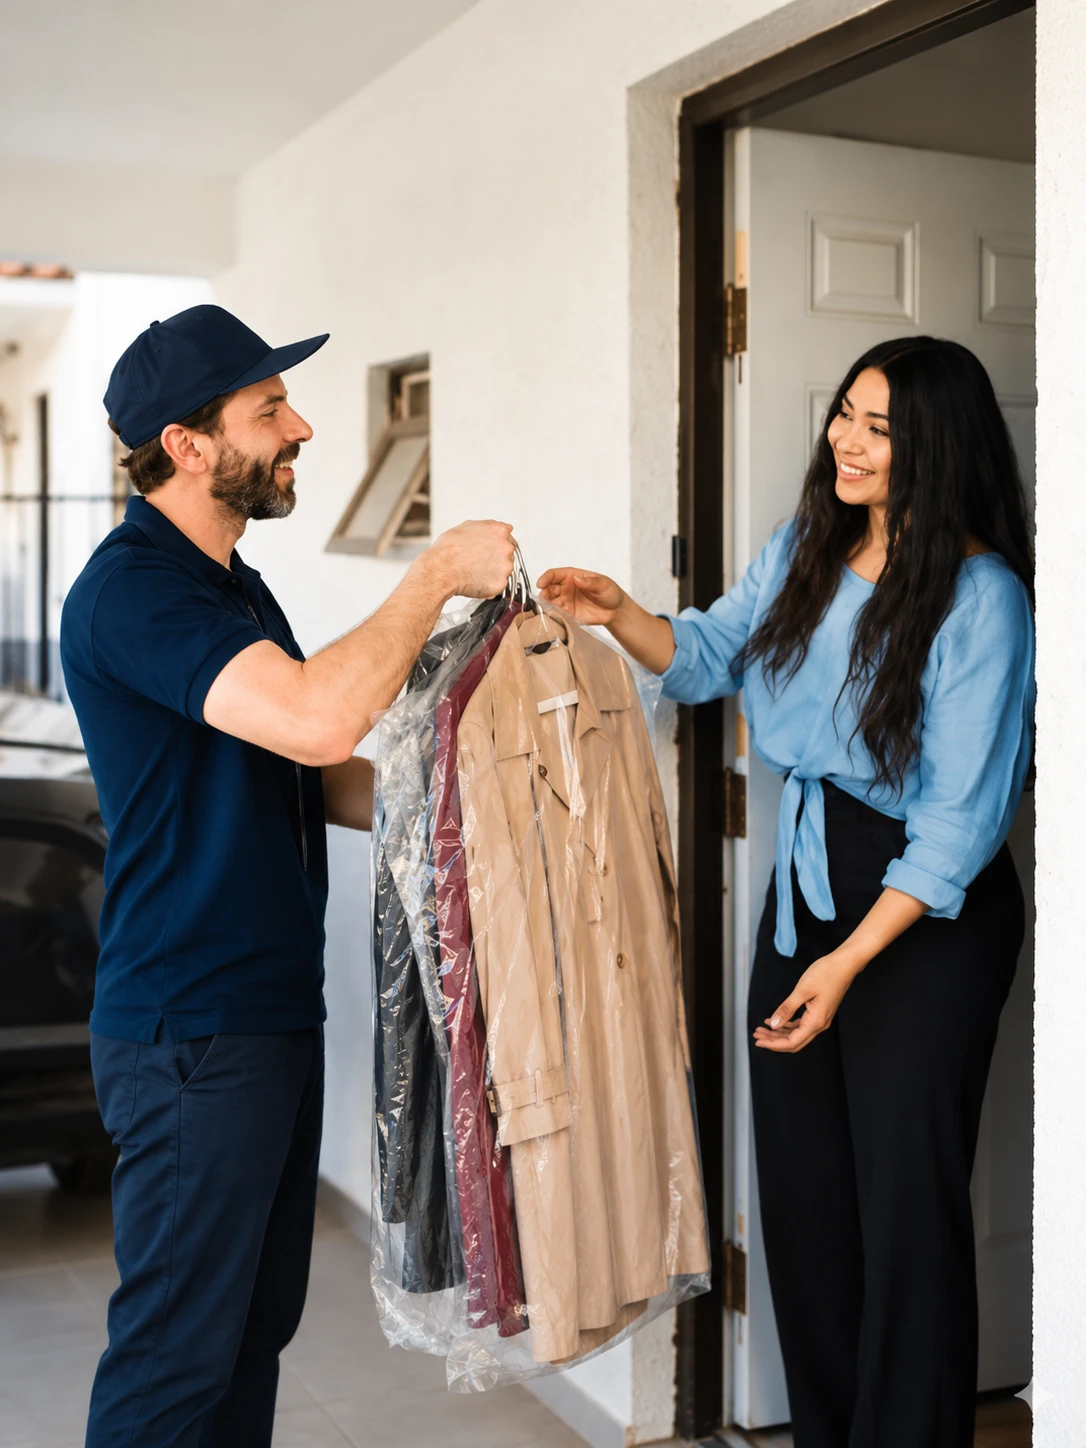
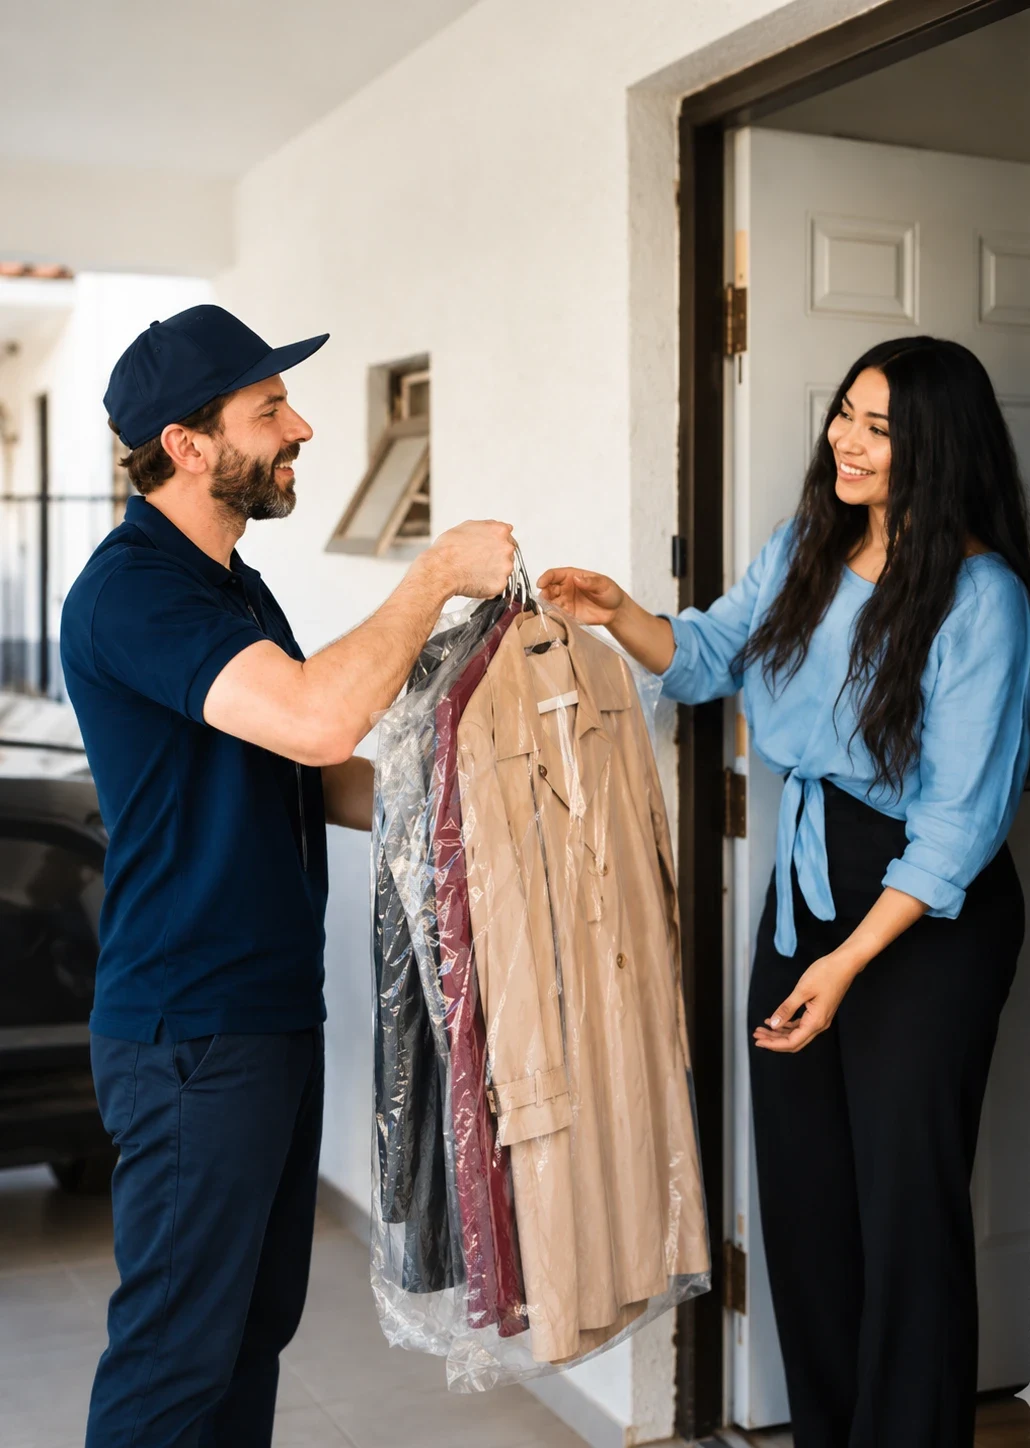
Fill internal-page heroes and fix the homepage hero crop
- hero.webp had a ~55px white band baked into its right edge, so the photo
  never filled its frame. Cropped to the real photo (1030x1448).
- /services, /how-it-works and /locations heroes had an empty right column.
  They now carry a photo: finished folded shirt, the owner-supplied doorstep
  handover, and the courier pickup image.
- Location pages show a large typographic sector plate in the hero until a
  verified outlet photo is uploaded (never stock). PageHero gains a
  `visual` slot for this.

Claude-Session: https://claude.ai/code/session_019MUj5QRW2qMKPvwBigzQSn

diff --git a/src/components/pages/PageHero.tsx b/src/components/pages/PageHero.tsx
@@ -34,6 +34,7 @@ export function PageHero({
   actions,
   aside,
   image,
+  visual,
   priority = true,
   stackActionsOnMobile = false,
 }: {
@@ -50,10 +51,13 @@ export function PageHero({
   /** Content under the actions (proof lines, facts). */
   aside?: ReactNode;
   image?: ImageSlot;
+  /** Right-column content when there is no photo (e.g. a location plate). Ignored if `image` is set. */
+  visual?: ReactNode;
   priority?: boolean;
   /** Stack the two actions on mobile when both are text buttons that won't fit side by side. */
   stackActionsOnMobile?: boolean;
 }) {
+  const hasVisual = Boolean(image || visual);
   return (
     <section aria-labelledby="page-title" className="pb-14 pt-6 md:pb-20 md:pt-10 xl:pb-24 xl:pt-12">
       <div className="container-page">
@@ -62,7 +66,7 @@ export function PageHero({
           <JsonLd data={buildBreadcrumbSchema(crumbs.map((c) => ({ label: c.label, path: c.href ?? path })))} />
         ) : null}
         <div className="mt-6 grid-page gap-y-8 md:mt-8">
-          <div className={image ? "col-span-4 md:col-span-4 xl:col-span-6" : "col-span-4 md:col-span-8 xl:col-span-9"}>
+          <div className={hasVisual ? "col-span-4 md:col-span-4 xl:col-span-6" : "col-span-4 md:col-span-8 xl:col-span-9"}>
             {eyebrow ? <Eyebrow>{eyebrow}</Eyebrow> : null}
             <h1 id="page-title" className="t-h1 max-w-[20ch] text-navy">
               {emphasise(title, highlight)}
@@ -86,6 +90,8 @@ export function PageHero({
                 priority={priority}
               />
             </div>
+          ) : visual ? (
+            <div className="col-span-4 md:col-span-4 md:col-start-5 xl:col-span-6 xl:col-start-7">{visual}</div>
           ) : null}
         </div>
       </div>

diff --git a/src/components/home/LocationsSection.tsx b/src/components/home/LocationsSection.tsx
@@ -23,15 +23,33 @@ async function LocationVisual({ loc }: { loc: Location }) {
       />
     );
   }
+  return <LocationPlate loc={loc} />;
+}
+
+/**
+ * Typographic stand-in for an outlet photo: the sector number set large.
+ * `hero` fills an internal-page hero column; the default is a short block header.
+ */
+export function LocationPlate({ loc, size = "block" }: { loc: Location; size?: "block" | "hero" }) {
+  const hero = size === "hero";
   return (
     <div
       aria-hidden="true"
-      className="flex h-[124px] flex-col md:h-[150px] xl:h-[190px] justify-between rounded-md border-t-2 border-navy bg-soft px-5 py-4 md:px-6 md:py-5"
+      className={`flex flex-col justify-between rounded-md border-t-2 border-navy bg-soft ${
+        hero
+          ? "aspect-[16/10] px-6 py-5 md:aspect-[4/5] md:px-8 md:py-7 xl:aspect-[4/3]"
+          : "h-[124px] px-5 py-4 md:h-[150px] md:px-6 md:py-5 xl:h-[190px]"
+      }`}
     >
       <span className="t-label uppercase text-secondary">Velto outlet · Uttara Sector</span>
-      <span className="text-[56px] font-semibold leading-[0.85] tracking-[-0.03em] text-navy md:text-[72px]">
+      <span
+        className={`font-semibold leading-[0.85] tracking-[-0.03em] text-navy ${
+          hero ? "text-[120px] md:text-[160px] xl:text-[200px]" : "text-[56px] md:text-[72px]"
+        }`}
+      >
         {loc.name.replace(/\D/g, "")}
       </span>
+      {hero ? <span className="t-small text-secondary">{loc.hours}</span> : null}
     </div>
   );
 }

diff --git a/src/app/(site)/locations/[id]/page.tsx b/src/app/(site)/locations/[id]/page.tsx
@@ -15,6 +15,7 @@ import { IMAGES } from "@/content/mock";
 import { FREE_DELIVERY_THRESHOLD, LOCATIONS, SERVICE_AREA, WHATSAPP_URL, bookHref } from "@/content/site";
 import { pageMetadata } from "@/lib/seo/page-metadata";
 import { getLocations, resolveImage } from "@/lib/site-content";
+import { LocationPlate } from "@/components/home/LocationsSection";
 
 // Unknown slugs 404 via notFound(). dynamicParams=false would also 404 the real pages
 // after an admin save revalidates the layout (Next.js NoFallbackError on regeneration).
@@ -48,6 +49,7 @@ export default async function LocationPage({ params }: { params: Promise<{ id: s
         highlight={`Uttara ${loc.name}`}
         // Real outlet: never stock. Show the photo only once a verified Velto one is uploaded.
         image={outletPhoto.src ? outletPhoto : undefined}
+        visual={<LocationPlate loc={loc} size="hero" />}
         eyebrow={`Velto ${loc.name}`}
         aside={
           <>

diff --git a/src/app/(site)/how-it-works/page.tsx b/src/app/(site)/how-it-works/page.tsx
@@ -9,6 +9,7 @@ import { PageHero } from "@/components/pages/PageHero";
 import { ProcessSteps } from "@/components/pages/ProcessSteps";
 import { ButtonLink, WhatsAppButton } from "@/components/ui/Button";
 import { FREE_DELIVERY_THRESHOLD, WHATSAPP_URL, bookHref } from "@/content/site";
+import { IMAGES } from "@/content/mock";
 
 export const generateMetadata = () => pageMetadata("/how-it-works");
 
@@ -17,6 +18,7 @@ export default function HowItWorksPage() {
     <>
       <PageHero
         path={"/how-it-works"}
+        image={IMAGES.hero}
         crumbs={[{ label: "Home", href: "/" }, { label: "How It Works" }]}
         title="From your door and back again."
         eyebrow="How it works"

diff --git a/src/app/(site)/locations/page.tsx b/src/app/(site)/locations/page.tsx
@@ -9,6 +9,7 @@ import { ButtonLink } from "@/components/ui/Button";
 import { TextLink } from "@/components/ui/TextLink";
 import { FREE_DELIVERY_THRESHOLD, bookHref } from "@/content/site";
 import { getLocations } from "@/lib/site-content";
+import { IMAGES } from "@/content/mock";
 
 export const generateMetadata = () => pageMetadata("/locations");
 
@@ -18,6 +19,7 @@ export default async function LocationsPage() {
     <>
       <PageHero
         path={"/locations"}
+        image={IMAGES.process[0]}
         crumbs={[{ label: "Home", href: "/" }, { label: "Locations" }]}
         title="Two outlets in Uttara. Pickup across Sectors 1–18."
         eyebrow="Locations"

diff --git a/src/app/(site)/services/page.tsx b/src/app/(site)/services/page.tsx
@@ -14,6 +14,7 @@ import { ResponsiveImage } from "@/components/ui/ResponsiveImage";
 import { TextLink } from "@/components/ui/TextLink";
 import { SERVICE_PAGES, type ServiceContent, type ServiceSlug } from "@/content/services";
 import { FREE_DELIVERY_THRESHOLD, bookHref, quoteHref } from "@/content/site";
+import { IMAGES } from "@/content/mock";
 
 export const revalidate = 300;
 
@@ -80,6 +81,7 @@ export default async function ServicesPage() {
     <>
       <PageHero
         path={"/services"}
+        image={IMAGES.final}
         crumbs={[{ label: "Home", href: "/" }, { label: "Services" }]}
         title="Which service do you need?"
         eyebrow="Services"

diff --git a/src/content/mock.ts b/src/content/mock.ts
@@ -101,7 +101,7 @@ export const IMAGES = {
   hero: supplied(
     "hero",
     "A courier in a navy cap handing a bundle of garments in clear covers to a smiling woman at her front door.",
-    1086, 1448, "center 30%",
+    1030, 1448, "center 30%",
   ),
   dryCleaning: supplied(
     "dry-cleaning",
